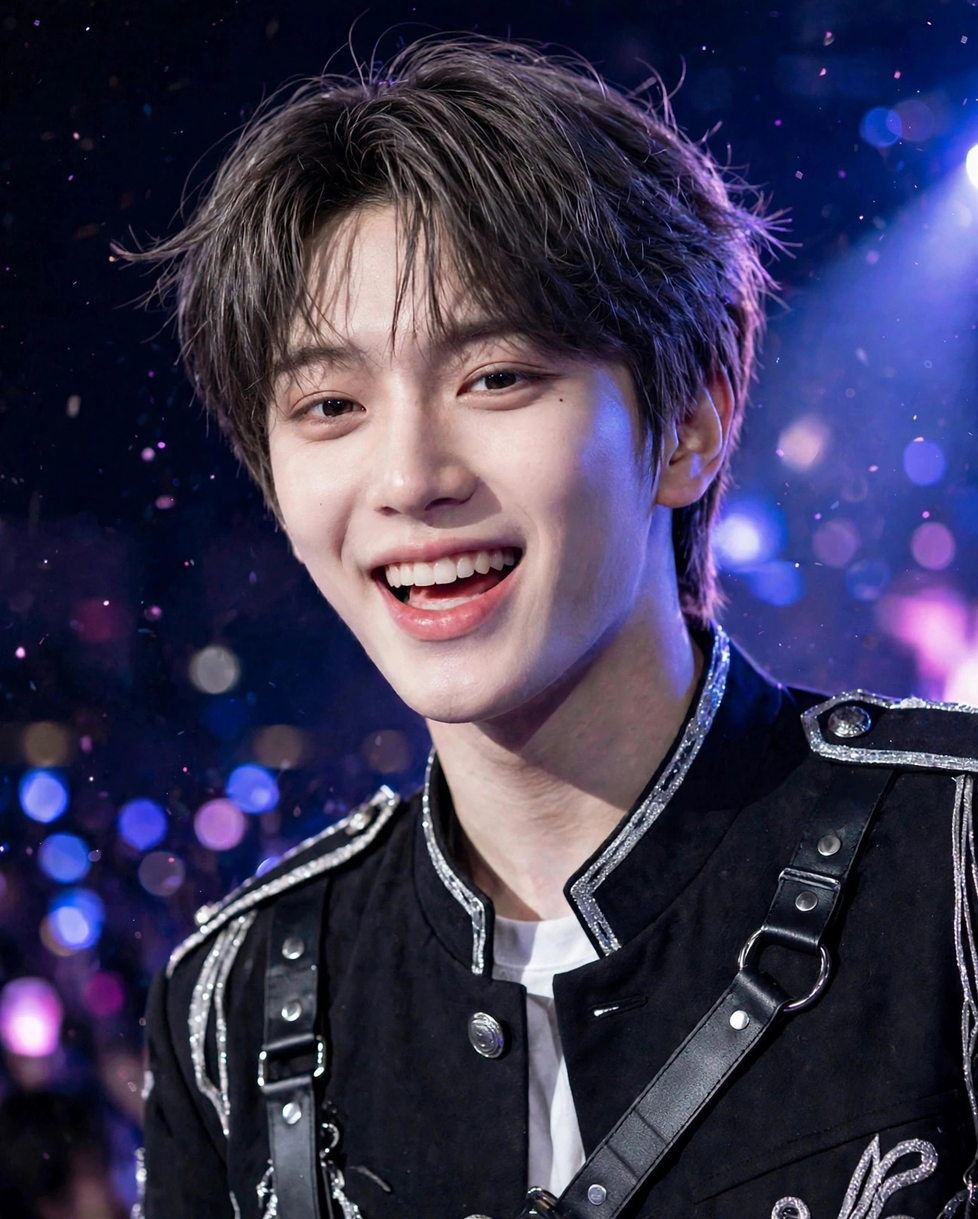
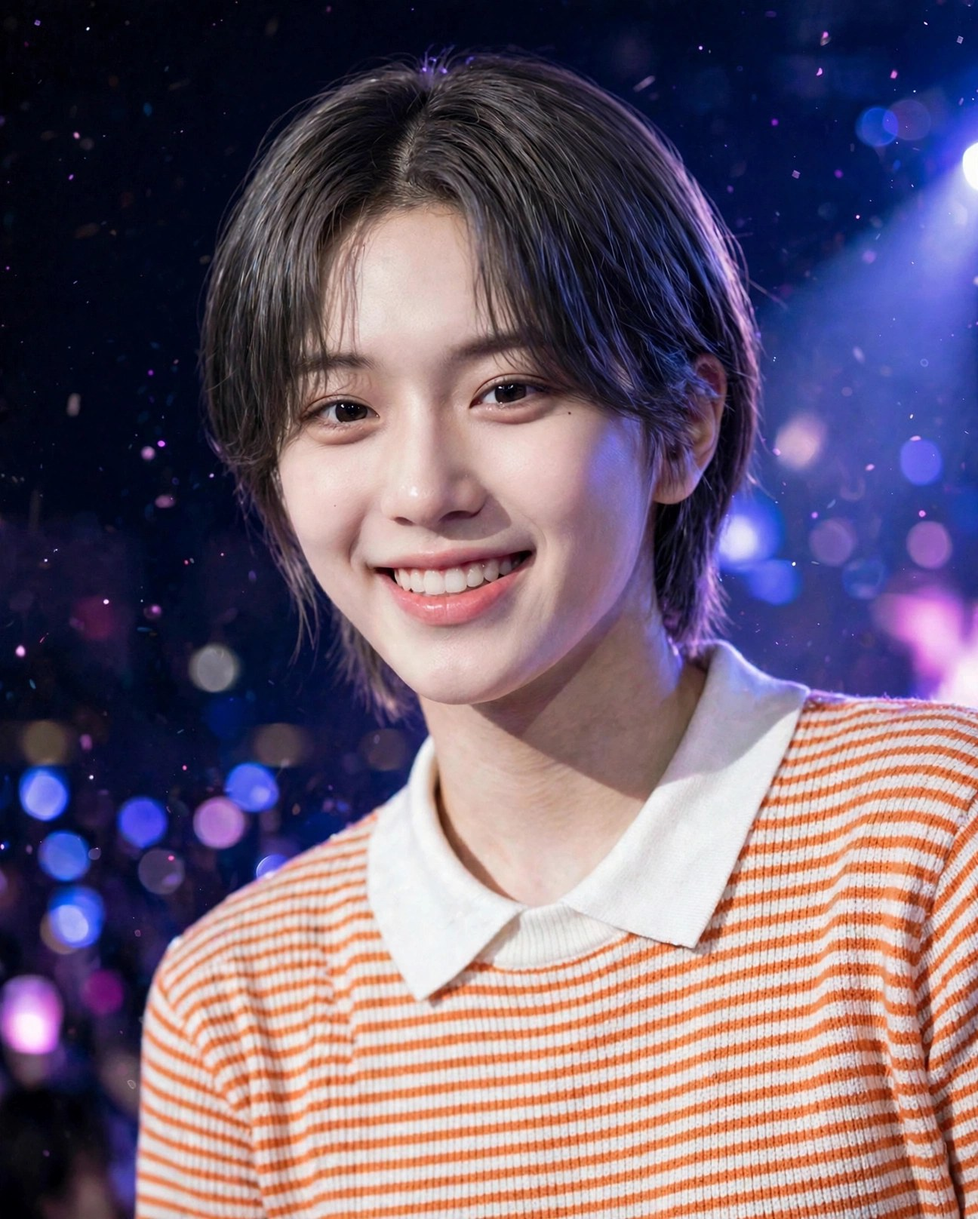
v169: 衣装ルール訂正（系統のみ共有・別デザイン）で4点を作り直し

diff --git a/index.html b/index.html
@@ -806,7 +806,7 @@ body{font-family:-apple-system,"Hiragino Kaku Gothic ProN","Noto Sans JP",sans-s
 <script>
 "use strict";
 const $=s=>document.querySelector(s);
-const VER="v168";
+const VER="v169";
 /* ============ state ============ */
 const DEF={idx:0,started:false,consented:false,soundOn:true,
  g:{iwakan:0,bare:0,todoita:0,uta:8,dance:4,ishi:50},
@@ -2584,7 +2584,7 @@ function renderSettings(tab){setTab=tab;document.querySelectorAll("#set-tabs but
  <div class="srow"><span>到達した結末</span><span class="sv">${S.trueEnd?"TRUE END ― 現在":S.normalEnd?"END ― 通常現在":S.loopBad?"BAD END ― ループ継続":S.bareEnd?"END ― 秘密バレIF":S.ridatsuEnd?"END ― 離脱した現在":"（まだ到達していません）"}</span></div>
  <div class="srow"><span>サウンド</span><span class="sv"><button id="snd-btn" style="background:${S.soundOn!==false?"#17172a":"#c6c6d4"};color:#fff;border:none;border-radius:999px;padding:6px 18px;font-size:12.5px;font-weight:700;cursor:pointer">${S.soundOn!==false?"ON":"OFF"}</button></span></div>
  <div class="srow"><span>フィクション</span><span class="sv">実在の記録をもとにした創作です</span></div>
- <div class="srow"><span>アップデート</span><span class="sv">v16 サウンドと画面遷移／v17 差分再演REPLAYとDiff時代別表示／v18 現在の小さな変化／v19 トークのスレッドとフリーチャット／v20・v23・v32 場面カットの追加／v21 日常回（食堂の夜・売店の夜）／v22 番組アプリの情報デザイン／v24 ホーム背景の時代連動と進行％／v25 タイトルのスライドショー／v26 彼の画面のカウンタ／v27 ロック画面の通知スタック／v28 写真の全画面ビューア／v30 章ごとの記録カード／v31 フィナーレ直前の彼の視点／v33 フリーチャットの時代別応答／v34 投票レシート／v35 ミッション進捗バー／v36 ゲージの危険域表示／v37 選んだ記録の判別表示／v38 台帳の時代別表示／v39 Keepsakeの時代バッジ／v41 章名つきロック画面／v42 トークの新着バッジ／v43 名簿の詳細パネル／v44 写真のスワイプ送り／v45 BGMの時代連動／v46 順位・差分の専用SE／v47 長押し早送り／v48 章セレクト／v50 REPLAY再演の追加／v52 日常回（コンビニの夜）／v53 タイトル通知のセーブ連動／v54 アプリアイコンのバッジ／v55 主人公の正式名「三浦渚央」と2019プロフィールの新フェイス差し替え／v56〜v59 プロフィール・場面カットの新フェイス再生成／v60 カード画角の統一（頭部55〜60%）と三浦渚央の順位表示／v61 名簿メモへの順位追記と凡例／v62 周B順位発表の彼の視点／v63 ストーリーバナーのサムネ時代連動／v64 タイトルに正式名／v65 ロック画面に順位通知／v66 情報タブに順位の記録／v67 順位行の文字色修正／v68 現在の小さな変化（順位の残響）／v69 写真メモに順位結果／v70 節目 ― 全アプリ走査／v71 フリーチャットの話題追加／v72 トークのチップ追加／v73・v74 順位タブの空状態整理／v75 順位変動のDiff記録／v76 節目 ― 全アプリ走査／v77 2021周A・初回ステージ後に彼の画面を追加／v78 2023周A・ファンカム章に彼の視点（インライン）を追加／v79 2019周A・順位発表式に彼の視点（インライン）を追加／v80 2023周A・VERY NICE本番前に彼の視点（インライン）を追加／v81 2023周A・寮の夜に彼の視点（インライン）を追加／v82 2019周A・届くはずのなかった手紙に彼の視点（インライン）を追加／v83 フリーチャットの話題拡充（2019専用プール＋新キーワード6種＋チップ追加）／v84 周Aの彼の記憶の線引きで全監査（2021・2023到着場面と彼の画面3件を連続した同僚の前提に書き換え）／v85 2019周A・練習室の夜に彼の視点（インライン）を追加／v86 2021周A・寮の一夜に彼の視点（インライン）を追加／v87 2023周A・コンビニの夜に彼の視点（インライン）を追加／v88 台帳・Keepsake・Diffの時代分類を修正（NXD期グループ新設、誤分類6件を是正）／v89 場面カット追加（2023順位発表の夜・face2基準で新規生成）／v90 場面カット追加（2021ファイナルの夜・face2基準で新規生成）／v91 節目 ― 全アプリ走査／v92 日常回「自販機の夜」（2023・周B）を追加／v93 2019周A・レベル分け評価に彼の視点（インライン）を追加／v94 写真アプリに時代別グルーピング（見出し＋枚数）を追加／v95 場面カット追加（NXD期・夜の練習室、face2基準で新規生成）／v96 フリーチャットの時代別プールを拡充（各時代＋2件）／v97 2019周B・発覚に彼の視点（インライン）を追加／v98 2021周B・再会に彼の視点（インライン）を追加／v99 2023周B・発覚に彼の視点（インライン）を追加／v100 節目 ― 全編通しプレイ検証／v101 効果音の配線追加（台帳・Keepsake・彼の視点）／v102 トークに彼のメッセージを3件追加／v103 タイトルのスライドショー拡充（8枚）とホーム背景のNXD期差し替え／v104 2023周B・再会に彼の視点（インライン）を追加／v105 2021周B・売店の夜に彼の視点（インライン）を追加／v106 NXD期・周B「移籍の決断」に彼の視点（インライン）を追加／v107 2023周B・共同作戦に彼の視点（インライン）を追加／v108 2019周B・共同作戦（ツカメ対策）に彼の視点（インライン）を追加／v109 2021周B・共同作戦に彼の視点（インライン）を追加／v110 NXD期・周B「延期の季節 ― 二度目」に彼の視点（インライン）を追加／v111 フリーチャット拡充（キーワード応答3種・チップ2件・現在編プール拡充）／v112 節目 ― 全アプリ走査／v113 2023周B・自販機の夜に彼の視点（インライン）を追加／v114 2019周A・食堂の夜に彼の視点（インライン）を追加／v115 2021周B・順位発表の締めに彼の視点（インライン）を追加／v116 設計ドキュメントの実装状況を更新／v117 場面カット追加（2019食堂の夜・face2基準で新規生成）／v118 場面カット追加（2021売店の夜・face2基準で新規生成）／v119 場面カット追加（2023コンビニの夜・face2基準で新規生成）／v120 背景の差し替え（現在編の冒頭とソロデビューの場面）／v121 節目 ― 全編通しプレイ検証（v101〜v120の追加後）／v122 画像出典メモ（IMAGE_SOURCES.md）に新規カット6点とface2基準を追記／v123 READMEの状態表記を現行（本編完結・公開中）に更新／v124 視覚QAで発見した順位タブの防御的修正（順位値の欠損時に最低ラインへフォールバック）／v125 節目 ― 全画面の視覚QA（撮影確認）／v126 節目 ― 別エンディング到達検証（秘密バレIF・離脱した現在）／v127 節目 ― 全5エンディング到達検証の完了（通常現在・ループ継続BADを追加確認）／v128 設計ドキュメントの実装状況に最終検証結果を追記／v129 READMEの現行版表記を更新／v130 生成メタファイルを .gitignore に追加して作業ツリーを整理／v131 「届くはずのなかった手紙」に背景を設定（食堂カットの引き継ぎを解消）／v132 フリーチャットの応答拡充（キーワード応答8種・時代別プール各+2件・チップ2件を追加）／v133 仕上げのUI調整（ホームのアプリアイコンのラベルの可読性を向上、ストーリー画面のゲージチップを均等な3+3配置に整形）／v134 フリーチャットに語学の話題を追加（中国語・韓国語・英語へのキーワード応答）／v135 節目 ― 朝まで改修の最終版（全アプリ走査・ドキュメント同期）／v136 トークを実物化（1相手=1スレッドに集約・未読バッジ・プレビュー・実物時刻・日付チップ・自分の送信への既読表示。仕組みは『現役アイドル、Tinderやってた件』のLINEと『キープ管理中！』の未読管理から移植）／v137 2021・2023の渚央プロフィールを制服版に統一（創造営の紺制服／ボイプラの淡グレー制服。名簿・順位・パネル・背景・写真の参照を全て profile-uniform 系へ）／v138 ロック画面とホームの実物化（主通知の送信者を実アプリ名にし未読トークがあれば最新メッセージを表示、日付を月日＋曜日の実物形式に、ホームと写真の操作説明文を撤去）／v139 トークをTinder版（v462）LINEと実測比較して一致（バブルの角・色・文字サイズ、入力欄、送信ボタン、日付チップ、一覧の行構成と検索ボックス、スレッドヘッダーのアバター）／v140 トークにLINEアプリのシェルを移植（下部タブバー＋タブ画面を新設。タブの数・並び・切替挙動はTinder版LINEと同一で、ホームタブは三浦渚央のプロフィール＋届いた応援カード＋友だちリストのパネル、ニュースは番組アプリ、その他は設定・記録へ接続）／v141 ロック画面の進化（時計を88px・太字に、通知カードをblur20px＋saturateの実物仕様にして幅を統一、スタック通知のアイコンをアプリ別SVGに分けて出現をスタッガード化。ステータスバーと電池％を追加し、壁紙を時代連動＋緩やかなズームに。下部のライトは白フラッシュが光る実働ボタンに、カメラは写真アプリへ直行。通知はタップで該当アプリ・記録へ遷移）／v142 ホーム画面の進化（Tinder版ホームのページ構成を移植：飾りだったドットを実働の2ページ化にし、横スワイプとドットタップで切替。2ページ目に物語暦のカレンダーウィジェットと時代のカットが切り替わる写真ウィジェットを新設し、記録サマリと次のミッションを移設。ドットの横に検索ピルを追加し、アプリ・記録を検索して直接開けるシートを実装。下部にガラスのドック（トーク／写真／番組アプリ／設定・記録、バッジ連動）を追加。ステータスバーに電池％、壁紙に緩やかなズーム）／v143 ロック画面の通知スタックの隙間を修正（ベースCSSの上マージン34pxがスタック内の通知にも効いて間隔が42pxに広がっていたのを、実物どおり8pxに統一。あわせて通知領域を時計の下〜下部ボタンの上のスクロール領域にして、通知が多くてもライト／カメラのボタンやヒント文字に重ならないようにした）／v144 写真アプリの進化（『現役アイドル、Tinderやってた件』の写真アプリから移植：2列カード型だったグリッドを3列・隙間2px・正方形の実物仕様にし、時代見出し＋枚数のヘッダーと上部のピル型タブ（すべて／時代別で絞り込み）を新設。ビューアはお気に入り（セーブに保持、グリッドにもハート表示）とスライドショーを追加し、送りを循環式から端で止まるクランプ式に変更、キャプション＋差分メモ＋時代＋通し番号のメタ表示とキー操作に対応。複数選択モード（最大4枚）からコラージュを作成でき、ロック画面の壁紙にも設定できる（時代連動に戻す導線つき）。中身の時代別カットと枚数は従来どおり）／v145 アプリアイコンをTinder版の様式に統一（アイコンを全面SVG化し、背景レイヤーまで1枚に収める方式へ。トーク＝LINE・写真・設定・記録はTinder版と同型のアイコンに、番組アプリは金の縦グラデーション＋王冠のグリフで同水準に。アイコンの角丸と影もTinder版の実測値に一致。あわせてラベル用ピルのCSSがドックのアイコンにも漏れて円形になっていた不具合を修正し、ドックでもグリッドと同じ角丸アイコンが並ぶようにした）／v147 渚央の顔を最終基準（本人の写真由来の顔＋クールな髪型）へ差し替え開始。2023編のプロフィール（基準画像そのものへ差し替え、カード用クロップも新基準で作成）と場面カット全8点を基準顔で再生成／v148 2021編を新基準へ差し替え（プロフィールは19歳相当＋創造営制服＋屋外背景で新規生成、カード用クロップも作成。場面カット5点＝daily／practice／ranking-close／study／shop-nightを19歳相当の基準顔で再生成。stageは次版で差し替え予定）／v149 2019編を新基準へ全面差し替え（プロフィールは17歳相当で再生成し直し、カード用クロップも新規作成。場面カット7点＝stage／stage2／dorm／practice／ranking-close／selfie／cafeteriaを17歳相当の基準顔で再生成）。リンクプレビュー用のog:image（新stageから作成）も新設／v150 旧素材（候補ファイル群・旧プロフィール）を保管庫へ退避し、顔素材を新基準のラインに統一（表示内容の変更なし）／v151 2021のステージカットを新顔基準（19歳版）で差し替え、顔の全面差し替えが完了／v153 2021プロフィールに創造営の学員証を追加（メンバーが付けている装着物に合わせた。2019は名札が既存仕様どおり、2023は装着物なしが実物どおり）。<br>v152 全時代のプロフィールをポーズ付きに作り直し（2019＝ガッツポーズの全身ショット、2021＝頬ハートの膝上ショット、2023＝腕組みのウエスト上ショット。顔は新基準のラインを維持し、寄りクロップも新しい全身から作り直し）<br>v154 全身カットの脚の比率を修正（2019・2021の練習室カットを脚長・細身のモデル体型プロポーションで再生成。構図・ポーズ・顔は維持）<br>v155 鼻の大きさを基準顔に修正（2019ステージカットと順位発表カットの鼻を、基準の小さく細い鼻筋＋小さく上向きの鼻先に寄せて再生成。構図・衣装・表情は維持）<br>v156 「彼の画面」を現代のモバイルADV風に作り替え（時代の場面カットをぼかしたシネマティック背景＋暗グラデーション、大翔のアバター＋名前チップのヘッダー、進行は紫ピルをやめてグラデーションのプログレスバー＋控えめな件数表示に。心の声は字幕風の中央テキスト＋ヘアライン区切り、セリフはガラス質の吹き出しカードにし、金枠と紫イタリックを廃止。終わりは白ピルの「戻る」ボタン。本文・分岐・ゲージの仕様は不変。物語内の彼の視点カードも同じ質感に統一）<br>v157 番組アプリのリアル化（お知らせタブを新設し、時代と進行に連動する事務局・投票・コンテンツ通知を掲載。結果のお知らせからは順位タブへ遷移。名簿の詳細をプロフィールページ化：ヒーロー写真＋名前オーバーレイ＋区分・番組の情報行＋順位の記録テーブル（彼の初回12位など史実と周ごとの結果を、発表済みの分だけ表示）＋渚央のスキルバー。順位タブの大翔・渚央の周B行に前回比の変動チップ▲を追加）<br>v158 設定・記録のリアル化（情報タブをiOS設定風に：作品情報／いまの記録／サウンド／履歴のグループカード化、サウンドはピルボタンからiOSトグルスイッチに、長いアップデート履歴は開閉式に収納。表示テキストは全て従来どおり。ゲージ・台帳・Keepsake・Diff・章の各タブはカード型の行＋チップ見出しで履歴・メモ系UIの質感に統一。ゲージ説明や順位計算などの仕様・文言は不変）<br>v162 周Bの記憶ルールを新仕様に統一（彼の記憶は周B開始時＝2019年の再会で大周回Aの全部が一度に戻る。旧仕様「時代ごとに、その時代ぶんが順に戻る」は廃止。2019編の発覚を全部戻った前提の大きな一場面に書き直し、2021・2023編の再会は「その時代の記憶が戻る・既視感から確信」ではなく確認と共同作戦の続きに書き換え。彼の視点・幕間・ロック画面の通知文も同じ前提に統一。ゲージ・分岐・順位計算などの数値仕様は不変）<br>v163 2019の2点（ステージ／順位発表の寄り）の鼻を再修正（v155で小さく寄りすぎていたものを、基準顔の比率どおりの自然な大きさに戻して再生成。顔・構図・衣装は維持。og画像も新しいステージカットから作り直し）<br>v164 2019のプロフィールを実物どおりの素立ちバストショットに戻した（PRODUCE 101 JAPANの公式プロフィールはポーズなしの素立ちが実物のため、v152のガッツポーズ全身は2019に限って撤回。グレーブレザー＋青チェックタイ＋名札は維持し、寄りクロップも新しいバストショットから作り直し。他時代のプロフィールは各時代の公式写真に合わせる原則どおり据え置き）<br>v165 周Bの順位に下限（フロア）を保証（大翔の周B順位は、プレイ内容によらず必ず周Aより上になるよう最低上昇幅を保証：2019は35位以下にならない／2021は14位以下にならない／2023は20位以下にならない。デビュー圏外の上限＝従来どおり。渚央の周B順位36／16／19位が周A 38／18／22位より上であることも全時代で再確認。計算式そのものと、届いた数の扱いなどの仕様文言は不変）<br>v166 楽曲が分かる場面カットの衣装を当時の実物に合わせて作り直し（2021ステージ＝創造営2021・初評級ステージの曲目 MAMAMOO『HIP -Japanese ver.-』でRBWチームが着た赤のスパンコール・オーバーサイズトップス＋黒カーゴに変更。従来の龍刺繍ジャケットは当時の衣装ではないため差し替え。2023ファンカム2点目（エンディング妖精）と新規ステージカット＝BOYS PLANET『VERY NICE』Gグループの実物衣装（白ベレー帽＋オレンジ×白の太ボーダーのラガーシャツ）に変更し、新規カットは周A・周B両方のVERY NICE本番場面の背景に配線。根拠は本人の公式直カムサムネイル等の実物資料）／v167 周Bは二人ともファイナルまで残る仕様に変更（本人の決定）：大翔の周B順位帯をファイナリスト範囲へ（2019：12〜20位／2023：実効14〜18位。2021は従来の計算で12〜14位＝範囲内のため据え置き）、渚央の周B順位を2019：17位・2023：14位に変更（2021：16位は据え置き）。順位行・名簿メモ・彼の視点・現在インタールードのテロップ・2019／2023編Bの順位発表の文章をファイナル到達で整合。デビューできない結末（Canon Lock 第1層）は不変／v168 周B 2019編にコンセプト評価『やんちゃBOYやんちゃGIRL』の場面を追加（本人の確定指定）：史実でも大翔はマッチング投票で同曲のセンター・サブボーカルに選ばれていたが第2回発表36位で脱落し立てなかったため、周Bでは二人とも同じチームで実際に立つ形にした（周Aの渚央は第2回発表で脱落するため登場しない）。衣装は実物（紺の学ラン風ブレザー＋白パイピング＋黄ストライプシャツ＋手紙の小道具）に合わせた新規カットを追加</span></div>
+ <div class="srow"><span>アップデート</span><span class="sv">v16 サウンドと画面遷移／v17 差分再演REPLAYとDiff時代別表示／v18 現在の小さな変化／v19 トークのスレッドとフリーチャット／v20・v23・v32 場面カットの追加／v21 日常回（食堂の夜・売店の夜）／v22 番組アプリの情報デザイン／v24 ホーム背景の時代連動と進行％／v25 タイトルのスライドショー／v26 彼の画面のカウンタ／v27 ロック画面の通知スタック／v28 写真の全画面ビューア／v30 章ごとの記録カード／v31 フィナーレ直前の彼の視点／v33 フリーチャットの時代別応答／v34 投票レシート／v35 ミッション進捗バー／v36 ゲージの危険域表示／v37 選んだ記録の判別表示／v38 台帳の時代別表示／v39 Keepsakeの時代バッジ／v41 章名つきロック画面／v42 トークの新着バッジ／v43 名簿の詳細パネル／v44 写真のスワイプ送り／v45 BGMの時代連動／v46 順位・差分の専用SE／v47 長押し早送り／v48 章セレクト／v50 REPLAY再演の追加／v52 日常回（コンビニの夜）／v53 タイトル通知のセーブ連動／v54 アプリアイコンのバッジ／v55 主人公の正式名「三浦渚央」と2019プロフィールの新フェイス差し替え／v56〜v59 プロフィール・場面カットの新フェイス再生成／v60 カード画角の統一（頭部55〜60%）と三浦渚央の順位表示／v61 名簿メモへの順位追記と凡例／v62 周B順位発表の彼の視点／v63 ストーリーバナーのサムネ時代連動／v64 タイトルに正式名／v65 ロック画面に順位通知／v66 情報タブに順位の記録／v67 順位行の文字色修正／v68 現在の小さな変化（順位の残響）／v69 写真メモに順位結果／v70 節目 ― 全アプリ走査／v71 フリーチャットの話題追加／v72 トークのチップ追加／v73・v74 順位タブの空状態整理／v75 順位変動のDiff記録／v76 節目 ― 全アプリ走査／v77 2021周A・初回ステージ後に彼の画面を追加／v78 2023周A・ファンカム章に彼の視点（インライン）を追加／v79 2019周A・順位発表式に彼の視点（インライン）を追加／v80 2023周A・VERY NICE本番前に彼の視点（インライン）を追加／v81 2023周A・寮の夜に彼の視点（インライン）を追加／v82 2019周A・届くはずのなかった手紙に彼の視点（インライン）を追加／v83 フリーチャットの話題拡充（2019専用プール＋新キーワード6種＋チップ追加）／v84 周Aの彼の記憶の線引きで全監査（2021・2023到着場面と彼の画面3件を連続した同僚の前提に書き換え）／v85 2019周A・練習室の夜に彼の視点（インライン）を追加／v86 2021周A・寮の一夜に彼の視点（インライン）を追加／v87 2023周A・コンビニの夜に彼の視点（インライン）を追加／v88 台帳・Keepsake・Diffの時代分類を修正（NXD期グループ新設、誤分類6件を是正）／v89 場面カット追加（2023順位発表の夜・face2基準で新規生成）／v90 場面カット追加（2021ファイナルの夜・face2基準で新規生成）／v91 節目 ― 全アプリ走査／v92 日常回「自販機の夜」（2023・周B）を追加／v93 2019周A・レベル分け評価に彼の視点（インライン）を追加／v94 写真アプリに時代別グルーピング（見出し＋枚数）を追加／v95 場面カット追加（NXD期・夜の練習室、face2基準で新規生成）／v96 フリーチャットの時代別プールを拡充（各時代＋2件）／v97 2019周B・発覚に彼の視点（インライン）を追加／v98 2021周B・再会に彼の視点（インライン）を追加／v99 2023周B・発覚に彼の視点（インライン）を追加／v100 節目 ― 全編通しプレイ検証／v101 効果音の配線追加（台帳・Keepsake・彼の視点）／v102 トークに彼のメッセージを3件追加／v103 タイトルのスライドショー拡充（8枚）とホーム背景のNXD期差し替え／v104 2023周B・再会に彼の視点（インライン）を追加／v105 2021周B・売店の夜に彼の視点（インライン）を追加／v106 NXD期・周B「移籍の決断」に彼の視点（インライン）を追加／v107 2023周B・共同作戦に彼の視点（インライン）を追加／v108 2019周B・共同作戦（ツカメ対策）に彼の視点（インライン）を追加／v109 2021周B・共同作戦に彼の視点（インライン）を追加／v110 NXD期・周B「延期の季節 ― 二度目」に彼の視点（インライン）を追加／v111 フリーチャット拡充（キーワード応答3種・チップ2件・現在編プール拡充）／v112 節目 ― 全アプリ走査／v113 2023周B・自販機の夜に彼の視点（インライン）を追加／v114 2019周A・食堂の夜に彼の視点（インライン）を追加／v115 2021周B・順位発表の締めに彼の視点（インライン）を追加／v116 設計ドキュメントの実装状況を更新／v117 場面カット追加（2019食堂の夜・face2基準で新規生成）／v118 場面カット追加（2021売店の夜・face2基準で新規生成）／v119 場面カット追加（2023コンビニの夜・face2基準で新規生成）／v120 背景の差し替え（現在編の冒頭とソロデビューの場面）／v121 節目 ― 全編通しプレイ検証（v101〜v120の追加後）／v122 画像出典メモ（IMAGE_SOURCES.md）に新規カット6点とface2基準を追記／v123 READMEの状態表記を現行（本編完結・公開中）に更新／v124 視覚QAで発見した順位タブの防御的修正（順位値の欠損時に最低ラインへフォールバック）／v125 節目 ― 全画面の視覚QA（撮影確認）／v126 節目 ― 別エンディング到達検証（秘密バレIF・離脱した現在）／v127 節目 ― 全5エンディング到達検証の完了（通常現在・ループ継続BADを追加確認）／v128 設計ドキュメントの実装状況に最終検証結果を追記／v129 READMEの現行版表記を更新／v130 生成メタファイルを .gitignore に追加して作業ツリーを整理／v131 「届くはずのなかった手紙」に背景を設定（食堂カットの引き継ぎを解消）／v132 フリーチャットの応答拡充（キーワード応答8種・時代別プール各+2件・チップ2件を追加）／v133 仕上げのUI調整（ホームのアプリアイコンのラベルの可読性を向上、ストーリー画面のゲージチップを均等な3+3配置に整形）／v134 フリーチャットに語学の話題を追加（中国語・韓国語・英語へのキーワード応答）／v135 節目 ― 朝まで改修の最終版（全アプリ走査・ドキュメント同期）／v136 トークを実物化（1相手=1スレッドに集約・未読バッジ・プレビュー・実物時刻・日付チップ・自分の送信への既読表示。仕組みは『現役アイドル、Tinderやってた件』のLINEと『キープ管理中！』の未読管理から移植）／v137 2021・2023の渚央プロフィールを制服版に統一（創造営の紺制服／ボイプラの淡グレー制服。名簿・順位・パネル・背景・写真の参照を全て profile-uniform 系へ）／v138 ロック画面とホームの実物化（主通知の送信者を実アプリ名にし未読トークがあれば最新メッセージを表示、日付を月日＋曜日の実物形式に、ホームと写真の操作説明文を撤去）／v139 トークをTinder版（v462）LINEと実測比較して一致（バブルの角・色・文字サイズ、入力欄、送信ボタン、日付チップ、一覧の行構成と検索ボックス、スレッドヘッダーのアバター）／v140 トークにLINEアプリのシェルを移植（下部タブバー＋タブ画面を新設。タブの数・並び・切替挙動はTinder版LINEと同一で、ホームタブは三浦渚央のプロフィール＋届いた応援カード＋友だちリストのパネル、ニュースは番組アプリ、その他は設定・記録へ接続）／v141 ロック画面の進化（時計を88px・太字に、通知カードをblur20px＋saturateの実物仕様にして幅を統一、スタック通知のアイコンをアプリ別SVGに分けて出現をスタッガード化。ステータスバーと電池％を追加し、壁紙を時代連動＋緩やかなズームに。下部のライトは白フラッシュが光る実働ボタンに、カメラは写真アプリへ直行。通知はタップで該当アプリ・記録へ遷移）／v142 ホーム画面の進化（Tinder版ホームのページ構成を移植：飾りだったドットを実働の2ページ化にし、横スワイプとドットタップで切替。2ページ目に物語暦のカレンダーウィジェットと時代のカットが切り替わる写真ウィジェットを新設し、記録サマリと次のミッションを移設。ドットの横に検索ピルを追加し、アプリ・記録を検索して直接開けるシートを実装。下部にガラスのドック（トーク／写真／番組アプリ／設定・記録、バッジ連動）を追加。ステータスバーに電池％、壁紙に緩やかなズーム）／v143 ロック画面の通知スタックの隙間を修正（ベースCSSの上マージン34pxがスタック内の通知にも効いて間隔が42pxに広がっていたのを、実物どおり8pxに統一。あわせて通知領域を時計の下〜下部ボタンの上のスクロール領域にして、通知が多くてもライト／カメラのボタンやヒント文字に重ならないようにした）／v144 写真アプリの進化（『現役アイドル、Tinderやってた件』の写真アプリから移植：2列カード型だったグリッドを3列・隙間2px・正方形の実物仕様にし、時代見出し＋枚数のヘッダーと上部のピル型タブ（すべて／時代別で絞り込み）を新設。ビューアはお気に入り（セーブに保持、グリッドにもハート表示）とスライドショーを追加し、送りを循環式から端で止まるクランプ式に変更、キャプション＋差分メモ＋時代＋通し番号のメタ表示とキー操作に対応。複数選択モード（最大4枚）からコラージュを作成でき、ロック画面の壁紙にも設定できる（時代連動に戻す導線つき）。中身の時代別カットと枚数は従来どおり）／v145 アプリアイコンをTinder版の様式に統一（アイコンを全面SVG化し、背景レイヤーまで1枚に収める方式へ。トーク＝LINE・写真・設定・記録はTinder版と同型のアイコンに、番組アプリは金の縦グラデーション＋王冠のグリフで同水準に。アイコンの角丸と影もTinder版の実測値に一致。あわせてラベル用ピルのCSSがドックのアイコンにも漏れて円形になっていた不具合を修正し、ドックでもグリッドと同じ角丸アイコンが並ぶようにした）／v147 渚央の顔を最終基準（本人の写真由来の顔＋クールな髪型）へ差し替え開始。2023編のプロフィール（基準画像そのものへ差し替え、カード用クロップも新基準で作成）と場面カット全8点を基準顔で再生成／v148 2021編を新基準へ差し替え（プロフィールは19歳相当＋創造営制服＋屋外背景で新規生成、カード用クロップも作成。場面カット5点＝daily／practice／ranking-close／study／shop-nightを19歳相当の基準顔で再生成。stageは次版で差し替え予定）／v149 2019編を新基準へ全面差し替え（プロフィールは17歳相当で再生成し直し、カード用クロップも新規作成。場面カット7点＝stage／stage2／dorm／practice／ranking-close／selfie／cafeteriaを17歳相当の基準顔で再生成）。リンクプレビュー用のog:image（新stageから作成）も新設／v150 旧素材（候補ファイル群・旧プロフィール）を保管庫へ退避し、顔素材を新基準のラインに統一（表示内容の変更なし）／v151 2021のステージカットを新顔基準（19歳版）で差し替え、顔の全面差し替えが完了／v153 2021プロフィールに創造営の学員証を追加（メンバーが付けている装着物に合わせた。2019は名札が既存仕様どおり、2023は装着物なしが実物どおり）。<br>v152 全時代のプロフィールをポーズ付きに作り直し（2019＝ガッツポーズの全身ショット、2021＝頬ハートの膝上ショット、2023＝腕組みのウエスト上ショット。顔は新基準のラインを維持し、寄りクロップも新しい全身から作り直し）<br>v154 全身カットの脚の比率を修正（2019・2021の練習室カットを脚長・細身のモデル体型プロポーションで再生成。構図・ポーズ・顔は維持）<br>v155 鼻の大きさを基準顔に修正（2019ステージカットと順位発表カットの鼻を、基準の小さく細い鼻筋＋小さく上向きの鼻先に寄せて再生成。構図・衣装・表情は維持）<br>v156 「彼の画面」を現代のモバイルADV風に作り替え（時代の場面カットをぼかしたシネマティック背景＋暗グラデーション、大翔のアバター＋名前チップのヘッダー、進行は紫ピルをやめてグラデーションのプログレスバー＋控えめな件数表示に。心の声は字幕風の中央テキスト＋ヘアライン区切り、セリフはガラス質の吹き出しカードにし、金枠と紫イタリックを廃止。終わりは白ピルの「戻る」ボタン。本文・分岐・ゲージの仕様は不変。物語内の彼の視点カードも同じ質感に統一）<br>v157 番組アプリのリアル化（お知らせタブを新設し、時代と進行に連動する事務局・投票・コンテンツ通知を掲載。結果のお知らせからは順位タブへ遷移。名簿の詳細をプロフィールページ化：ヒーロー写真＋名前オーバーレイ＋区分・番組の情報行＋順位の記録テーブル（彼の初回12位など史実と周ごとの結果を、発表済みの分だけ表示）＋渚央のスキルバー。順位タブの大翔・渚央の周B行に前回比の変動チップ▲を追加）<br>v158 設定・記録のリアル化（情報タブをiOS設定風に：作品情報／いまの記録／サウンド／履歴のグループカード化、サウンドはピルボタンからiOSトグルスイッチに、長いアップデート履歴は開閉式に収納。表示テキストは全て従来どおり。ゲージ・台帳・Keepsake・Diff・章の各タブはカード型の行＋チップ見出しで履歴・メモ系UIの質感に統一。ゲージ説明や順位計算などの仕様・文言は不変）<br>v162 周Bの記憶ルールを新仕様に統一（彼の記憶は周B開始時＝2019年の再会で大周回Aの全部が一度に戻る。旧仕様「時代ごとに、その時代ぶんが順に戻る」は廃止。2019編の発覚を全部戻った前提の大きな一場面に書き直し、2021・2023編の再会は「その時代の記憶が戻る・既視感から確信」ではなく確認と共同作戦の続きに書き換え。彼の視点・幕間・ロック画面の通知文も同じ前提に統一。ゲージ・分岐・順位計算などの数値仕様は不変）<br>v163 2019の2点（ステージ／順位発表の寄り）の鼻を再修正（v155で小さく寄りすぎていたものを、基準顔の比率どおりの自然な大きさに戻して再生成。顔・構図・衣装は維持。og画像も新しいステージカットから作り直し）<br>v164 2019のプロフィールを実物どおりの素立ちバストショットに戻した（PRODUCE 101 JAPANの公式プロフィールはポーズなしの素立ちが実物のため、v152のガッツポーズ全身は2019に限って撤回。グレーブレザー＋青チェックタイ＋名札は維持し、寄りクロップも新しいバストショットから作り直し。他時代のプロフィールは各時代の公式写真に合わせる原則どおり据え置き）<br>v165 周Bの順位に下限（フロア）を保証（大翔の周B順位は、プレイ内容によらず必ず周Aより上になるよう最低上昇幅を保証：2019は35位以下にならない／2021は14位以下にならない／2023は20位以下にならない。デビュー圏外の上限＝従来どおり。渚央の周B順位36／16／19位が周A 38／18／22位より上であることも全時代で再確認。計算式そのものと、届いた数の扱いなどの仕様文言は不変）<br>v166 楽曲が分かる場面カットの衣装を当時の実物に合わせて作り直し（2021ステージ＝創造営2021・初評級ステージの曲目 MAMAMOO『HIP -Japanese ver.-』でRBWチームが着た赤のスパンコール・オーバーサイズトップス＋黒カーゴに変更。従来の龍刺繍ジャケットは当時の衣装ではないため差し替え。2023ファンカム2点目（エンディング妖精）と新規ステージカット＝BOYS PLANET『VERY NICE』Gグループの実物衣装（白ベレー帽＋オレンジ×白の太ボーダーのラガーシャツ）に変更し、新規カットは周A・周B両方のVERY NICE本番場面の背景に配線。根拠は本人の公式直カムサムネイル等の実物資料）／v167 周Bは二人ともファイナルまで残る仕様に変更（本人の決定）：大翔の周B順位帯をファイナリスト範囲へ（2019：12〜20位／2023：実効14〜18位。2021は従来の計算で12〜14位＝範囲内のため据え置き）、渚央の周B順位を2019：17位・2023：14位に変更（2021：16位は据え置き）。順位行・名簿メモ・彼の視点・現在インタールードのテロップ・2019／2023編Bの順位発表の文章をファイナル到達で整合。デビューできない結末（Canon Lock 第1層）は不変／v168 周B 2019編にコンセプト評価『やんちゃBOYやんちゃGIRL』の場面を追加（本人の確定指定）：史実でも大翔はマッチング投票で同曲のセンター・サブボーカルに選ばれていたが第2回発表36位で脱落し立てなかったため、周Bでは二人とも同じチームで実際に立つ形にした（周Aの渚央は第2回発表で脱落するため登場しない）。衣装は実物（紺の学ラン風ブレザー＋白パイピング＋黄ストライプシャツ＋手紙の小道具）に合わせた新規カットを追加／v169 衣装ルールを訂正（本人の指示）：大翔とまったく同じ衣装はNGで、系統（色味・素材感・コンセプト）だけ合わせて別デザインにする。創造営の赤スパンコールは系統（赤）を保ちつつギラギラを抑えた洗練デザイン（マットな深紅のシャツジャケット＋黒ワイドパンツ）に作り直し。VERY NICEの3点（ファンカム／ステージ／寄り）も大翔と同一だった白ベレー＋太ボーダーラガーをやめ、オレンジ×白の系統を保った別デザイン（細ボーダーのニットポロ＋白ワイドパンツ）に統一して作り直し。2原則は docs/ASSETS_NAO.md の衣装ルールに記録</span></div>
  <div class="pad"><p class="small">エンディングは5種（TRUE現在／通常現在／離脱した現在／秘密バレIF／ループ継続BAD）。結末は、彼の岐路での関わり・手がかり（Keepsakeと届いた数）・男装バレ度・最後の選択で分かれます。なお「デビューしてしまう現在」はIF候補として設計にのみ記録され、本編では採用していません（デビューメンバー構成は不変のため）。</p></div>
  <div class="pad"><button class="btn" id="reset-btn" style="background:#ff3b30">データを消して最初から</button></div>`;
  const rb=$("#reset-btn");if(rb)rb.onclick=()=>{if(confirm("セーブデータを消して最初から始めますか？")){localStorage.removeItem("tlSaveV2");location.reload();}};

diff --git a/docs/ASSETS_NAO.md b/docs/ASSETS_NAO.md
@@ -142,3 +142,8 @@
 
 ## 2019プロフィールはポーズなし（2026-11-09 v164）
 - PRODUCE 101 JAPAN の公式プロフィールは素立ちのバストショットが実物。本人の指示で、v152の「ポーズをとって」は2019には適用しない。2019 profile-face3b-full は素立ちバストショットに差し替え済み（寄り close2 も同カットから再作成）。他時代は各時代のメンバーの公式写真に合わせる原則どおり
+
+## 衣装ルール（2026-11-09 本人訂正・全衣装合わせに適用）
+1. **大翔とまったく同じ衣装はNG。「系統」だけ合わせる**：渚央の衣装は、そのチーム・その公演の世界観（色味・素材感・コンセプトの系統）を共有しつつ、彼女自身の別デザインにする。大翔の衣装のコピー（同一アイテム・同一コーデ）は避ける
+2. **創造営の赤いギラギラ衣装は作り直し**：2021の赤スパンコール系は、系統（赤）は保ちつつギラギラ感を抑えた今どきで洗練されたデザインにする。チープ・ダサく見える装飾過多は避ける
+- 適用例（v169）：2021 stage（HIP）は赤の系統を保った別デザイン（マットな深紅）へ、2023 fancam2／verynice／fancam-close（VERY NICE）は白ベレー＋太ボーダーラガーシャツという大翔と同一のコーデをやめ、オレンジ×白の系統を保った別デザイン（細ボーダーのニット）へ作り直した
